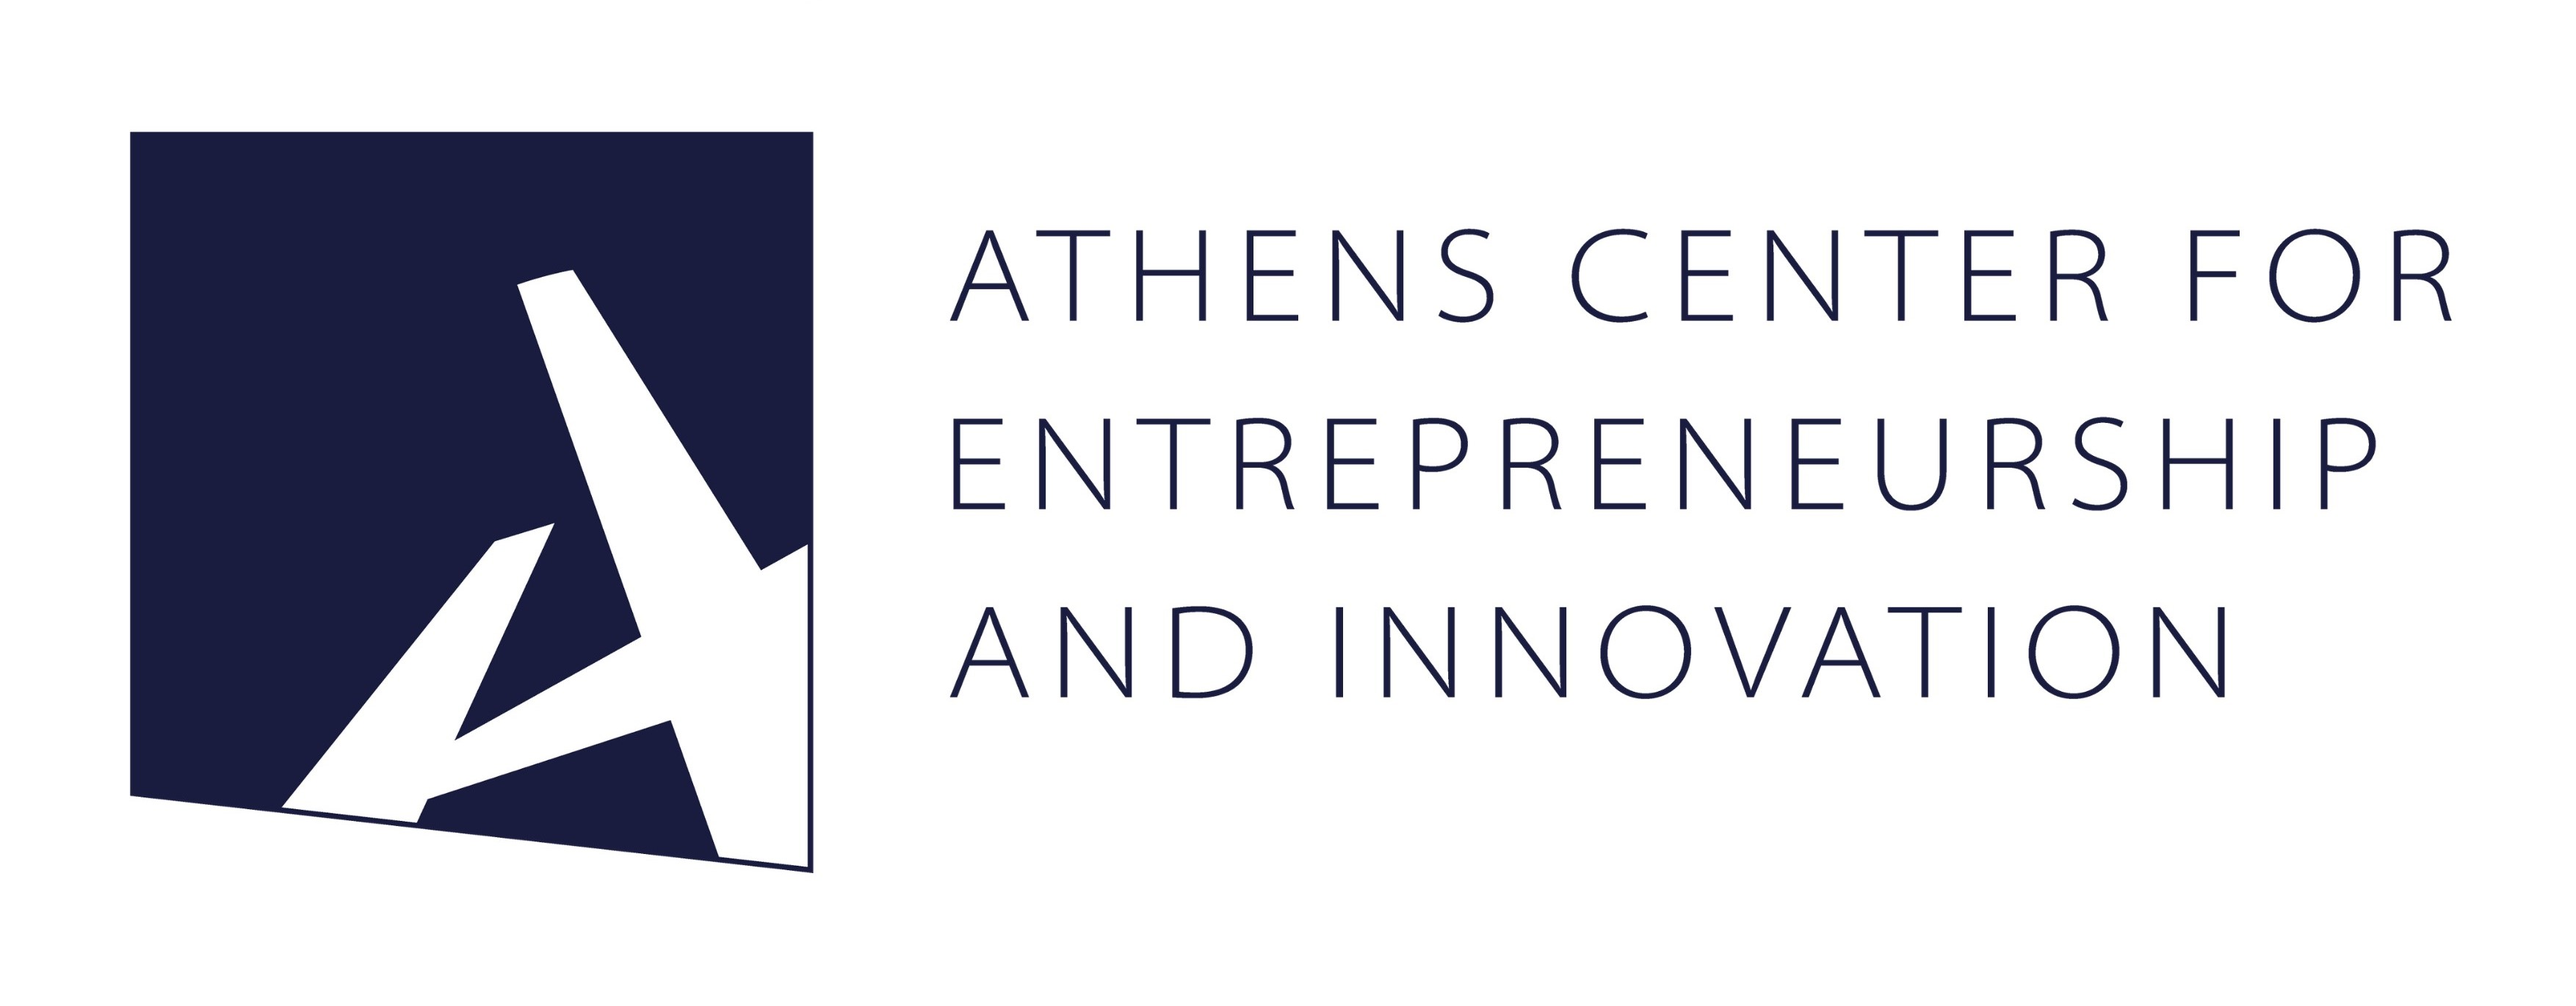
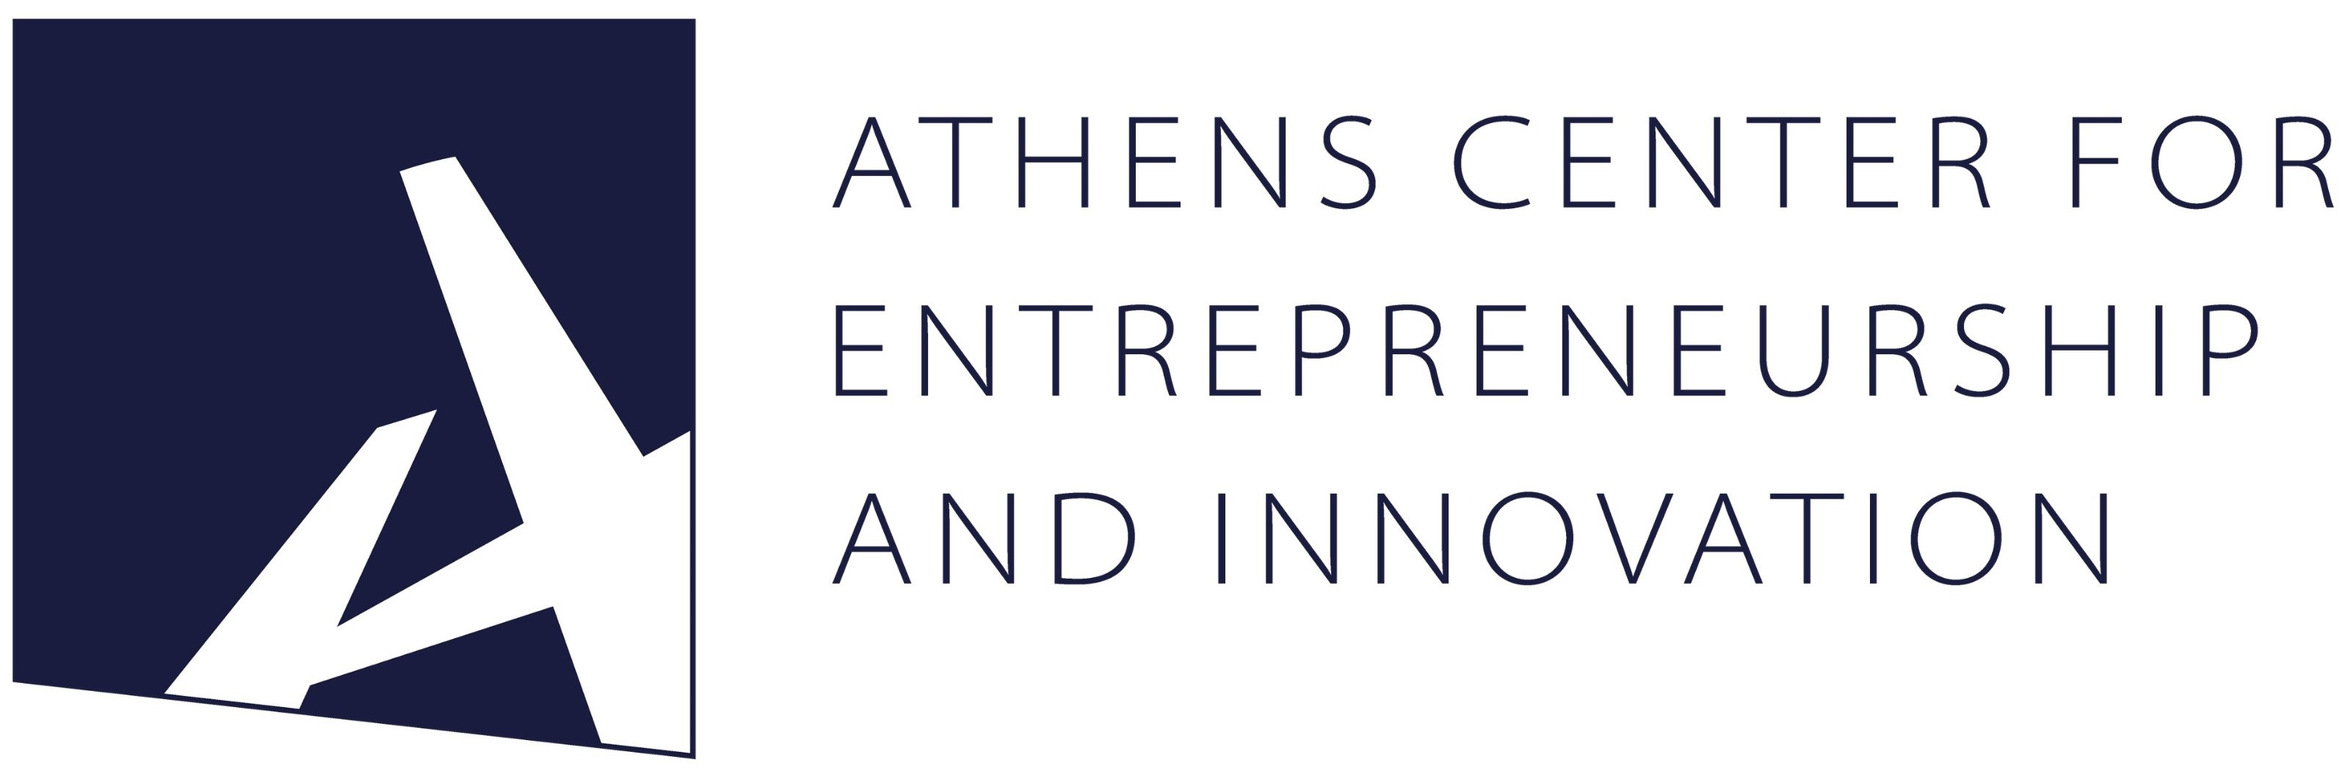
next version

diff --git a/src/Supporters.js b/src/Supporters.js
@@ -4,17 +4,17 @@ import "./styles.css";
 function Supporters() {
   return (
     <section id="supporters" className="container my-5">
-      <h2 className="text-center">Οι Υποστηρικτές μας</h2>
+      <h2 className="text-center">Υποστηρικτές</h2>
       <br></br>
       <div className="row">
         <div className="col-md-6 text-center">
-          <a href="https://startsmartsee.org/" target="_blank" rel="noopener noreferrer">
-            <img src="/images/startsmart.jpg" alt="Supporter 1" className="img-fluid supporter-img mb-3" />
+          <a href="https://acein.aueb.gr/en/" target="_blank" rel="noopener noreferrer">
+            <img src="/images/acein.jpg" alt="ACEIn" className="img-fluid uniform-size-img mb-3" />
           </a>
         </div>
         <div className="col-md-6 text-center">
-          <a href="https://acein.aueb.gr/en/" target="_blank" rel="noopener noreferrer">
-            <img src="/images/acein.jpg" alt="Supporter 2" className="img-fluid supporter-img mb-3" />
+          <a href="https://startsmartsee.org/" target="_blank" rel="noopener noreferrer">
+            <img src="/images/startsmart.jpg" alt="StartSmart" className="img-fluid uniform-size-img mb-3" />
           </a>
         </div>
       </div>

diff --git a/src/styles.css b/src/styles.css
@@ -29,6 +29,15 @@
   max-width: 1000px;
 }
 
+#info-section .btn {
+  margin-left: 0; /* Ensure there is no additional left margin */
+  padding: 0.375rem 0.75rem; /* Adjust padding if necessary */
+  width: 250px;
+  font-size: medium;
+  background-color: #007bff;
+
+}
+
 @keyframes fadeIn {
   from {
     opacity: 0;
@@ -58,6 +67,11 @@ h1 {
 
 .col-md-6 {
   text-align: center;
+}
+
+.img-fluid{
+  max-width: 100%;
+  height: auto;
 }
 
 .resizable-image {

diff --git a/src/InfoSection.js b/src/InfoSection.js
@@ -16,6 +16,7 @@ function InfoSection() {
           ενσυναίσθησης, ο καθένας μας μπορεί να νιώθει πιο δυνατός, όταν έρχεται
           αντιμέτωπος με μια σημαντική δυσκολία.
         </p>
+        <a href="#contact" className="btn btn-sm btn-primary mt-3">Επικοινώνησε μαζί μας</a>
       </div>
     </div>
   );
